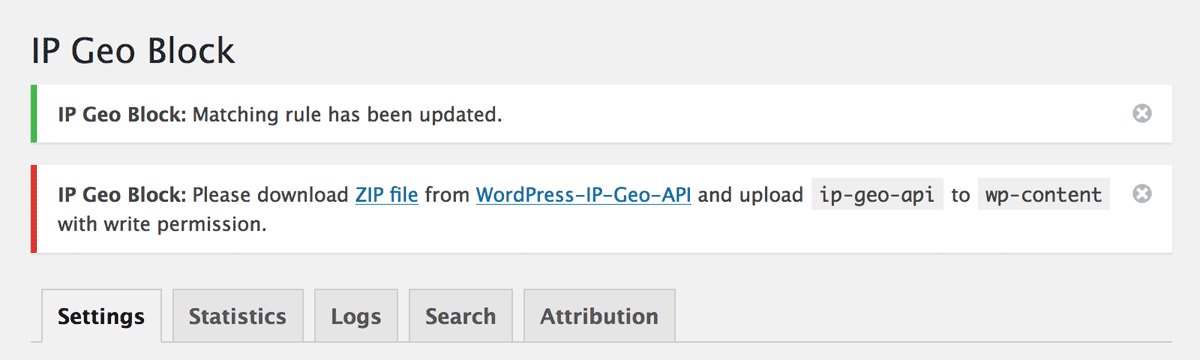
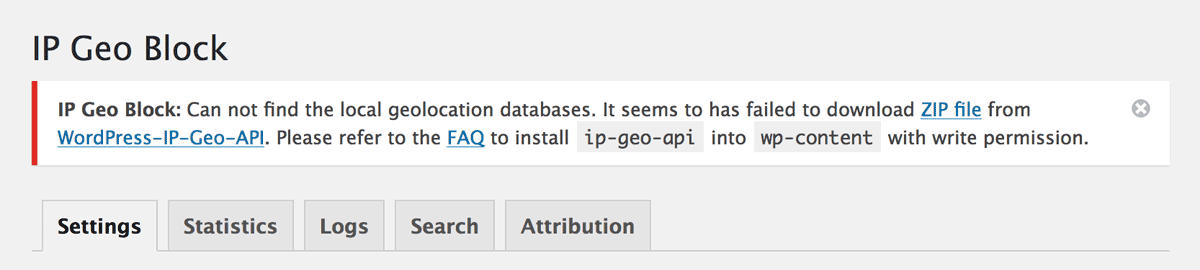
Update codex.

diff --git a/_codex/02. FAQ/04/how-to-fix-permission-troubles.md b/_codex/02. FAQ/04/how-to-fix-permission-troubles.md
@@ -15,29 +15,40 @@ In this case, you have to configure these places by your own hand.
 
 ### Geolocation API libraries and databases ###
 
-![Error of IP Geo API]({{ '/img/2016-09/ErrorGeoAPI.png' | prepend: site.baseurl }}
- "Error of IP Geo API"
-)
-
 This plugin handles the IP address geolocation databases of [Maxmind][Maxmind] 
-and [IP2Location][IP2Location] on your server. Those databases would be 
-downloaded via the dedicated class libraries for each. When you install this 
-plugin at the first time, one of the following directories will be selected 
-as the place where the class libraries and databases are stored.
+and [IP2Location][IP2Location] on your server. But it is also designed to work 
+properly without of these because of the requirement for GNU license.
+
+So when you install this plugin for the first time, the geolocation API library
+[IP-Geo-API][GitGeoAPI] for these databases would be installed into one of the 
+following directories will be selected as the place where the class libraries 
+and databases are stored.
 
 1. `/wp-content/ip-geo-api/`
 2. `/wp-content/uploads/ip-geo-api/`
 3. `/wp-content/plugins/ip-geo-block/ip-geo-api/`
 
-The 3rd one is not recommended because at every time this plugin updates, 
-files in its directory will be removed. So unfortunately when you meet the 
-above error message or find your dabase directory is the 3rd one, you should 
-download `ip-geo-api` from [Github][GitGeoAPI] and upload it to 1. or 2 with 
+But installing these libraries seldomly fails because of the security policy of
+your server.
+
+![Error of IP Geo API]({{ '/img/2016-09/ErrorGeoAPI.png' | prepend: site.baseurl }}
+ "Error of IP Geo API"
+)
+
+In this case, you had better to download [the ZIP file][GitGeoAPIZIP] and 
+upload `ip-geo-api` manually in the unzipped folder as the above 1. or 2 with 
 proper permission.
 
-Also please refer to the document 
-"<a href='https://codex.wordpress.org/Hardening_WordPress#Core_Directories_.2F_Files' title='Hardening WordPress &laquo; WordPress Codex'>Hardening WordPress</a>"
-to set the proper permission.
+The 3rd one is also not recommended because at every time this plugin updates, 
+files in its directory will be removed. So if you find your dabase directory 
+as the 3rd one, you should move it to 1. or 2.
+
+<div class="alert alert-info">
+	<strong>NOTE:</strong> Please refer to 
+	"<a href='https://codex.wordpress.org/Hardening_WordPress#Core_Directories_.2F_Files' title='Hardening WordPress &laquo; WordPress Codex'>Hardening WordPress</a>"
+	to give the proper permission to <code>ip-geo-api</code> folder. It may be 
+	<code>755</code> but should be confirmed by consulting your host administrator.
+</div>
 
 ### Force to load WP core ###
 
@@ -83,4 +94,5 @@ RewriteRule ^.*\.php$ rewrite.php [L]
 [Maxmind]:      https://www.maxmind.com/ "IP Geolocation and Online Fraud Prevention | MaxMind"
 [IP2Location]:  http://www.ip2location.com/ "IP Address Geolocation to Identify Website Visitor's Geographical Location"
 [GitGeoAPI]:    https://github.com/tokkonopapa/WordPress-IP-Geo-API "GitHub - tokkonopapa/WordPress-IP-Geo-API: A class library combined with WordPress plugin IP Geo Block to handle geo-location database of Maxmind and IP2Location."
+[GitGeoAPIZIP]: https://github.com/tokkonopapa/WordPress-IP-Geo-API/archive/master.zip
 [PreventExp]:   {{ '/article/exposure-of-wp-config-php.html' | prepend: site.baseurl }} "Prevent exposure of wp-config.php | IP Geo Block"
